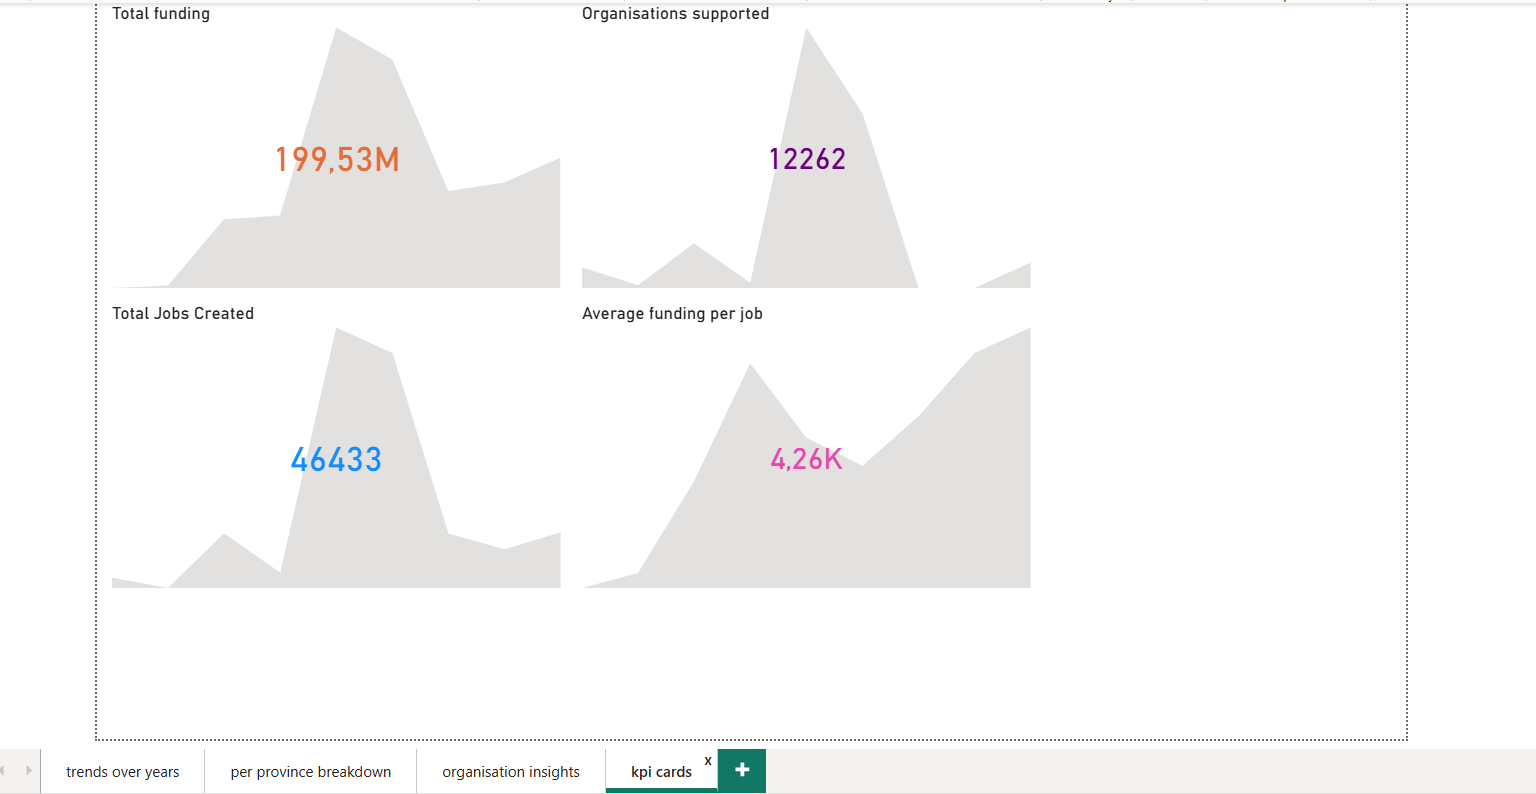
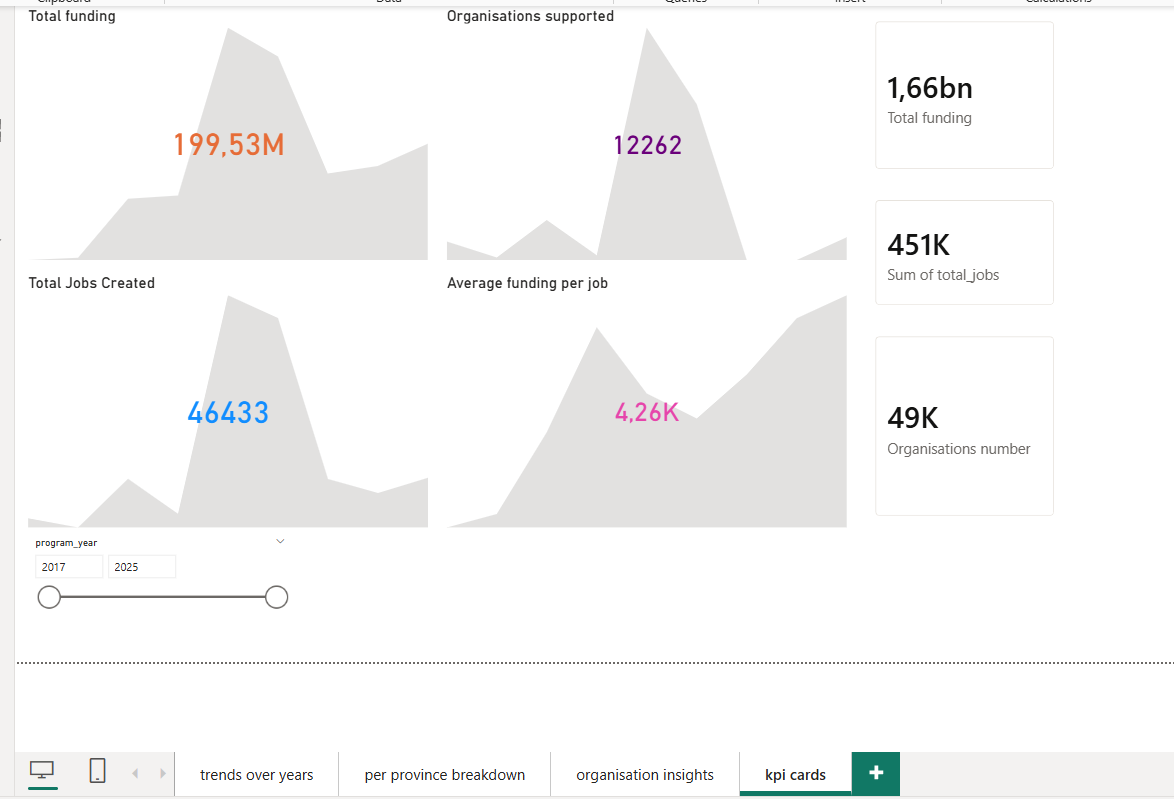
fix: kpis updates

diff --git a/README.md b/README.md
@@ -65,7 +65,7 @@ The gold layer feeds a four-page Power BI report:
 ### KPI Summary
 ![KPI Cards](dashboards/kpis.png)
 
-Program-level headline metrics: **$199.5M** total funding distributed across **12,262** organizations, creating **46,433** summer jobs at an average of **$4,260** per position. Sparklines show trends over the 2017--2025 period.
+All-time program totals alongside per-year sparklines: **$1.66B** total funding across the program's lifetime, supporting **49K** organizations and creating **451K** summer jobs. The sparklines with year slicer (2017--2025) let users drill into any period -- the 2025 snapshot shows $199.5M funding, 12,262 organizations, 46,433 jobs, and $4,260 average funding per position.
 
 ### Trends Over Years
 ![Trends](dashboards/total_trends.png)
